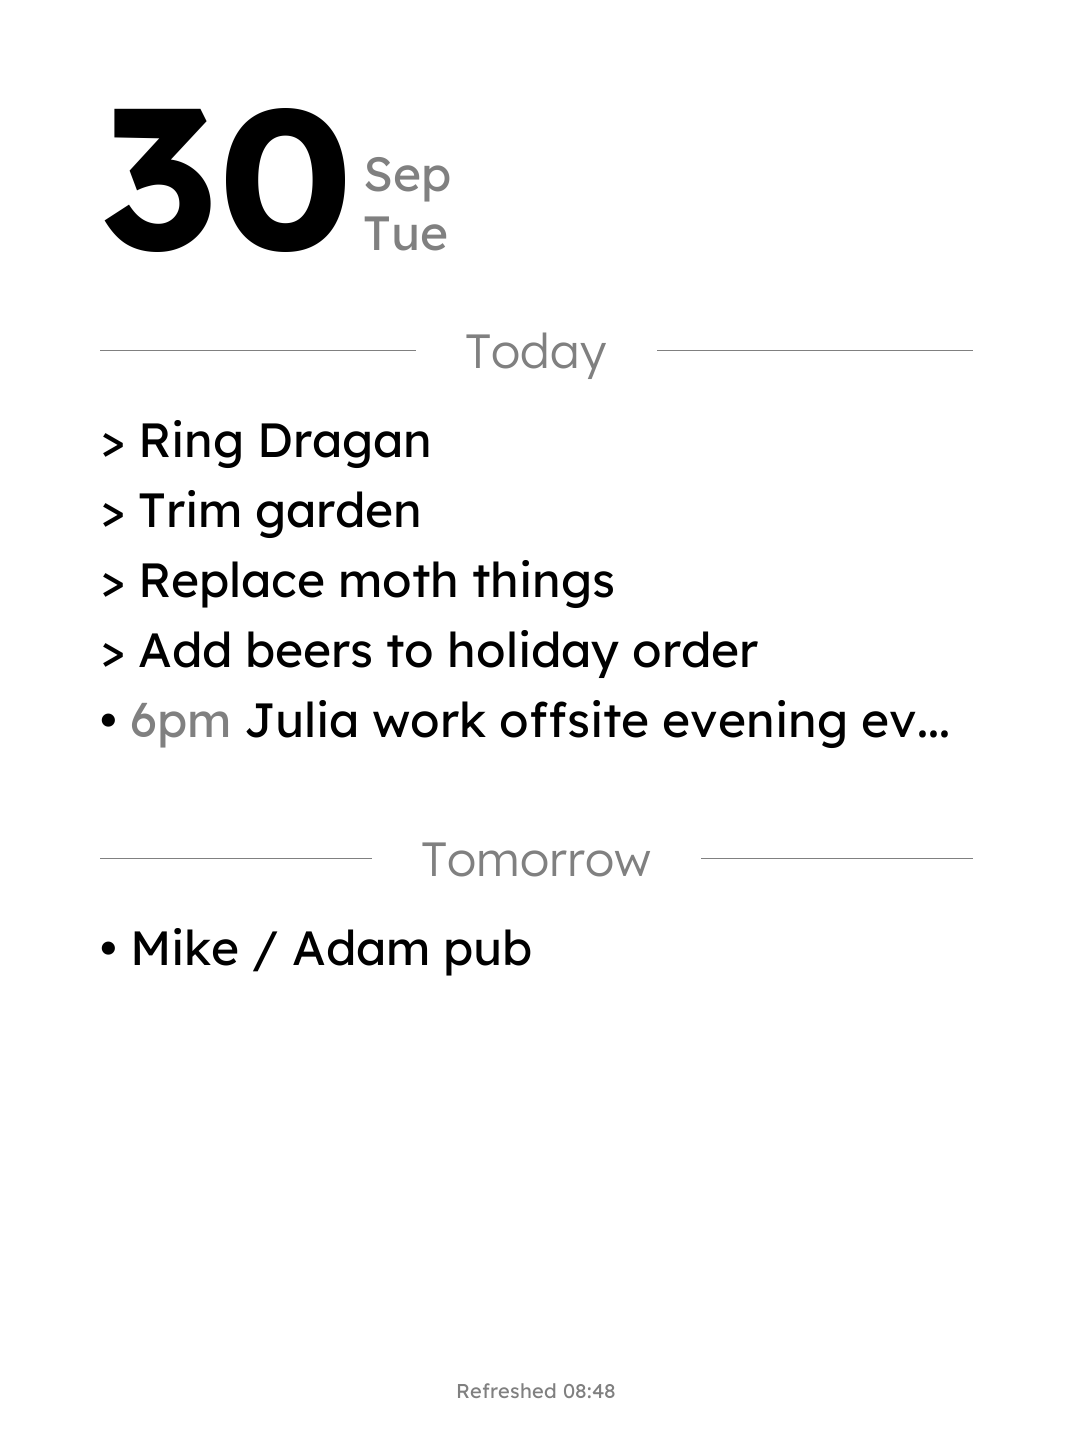
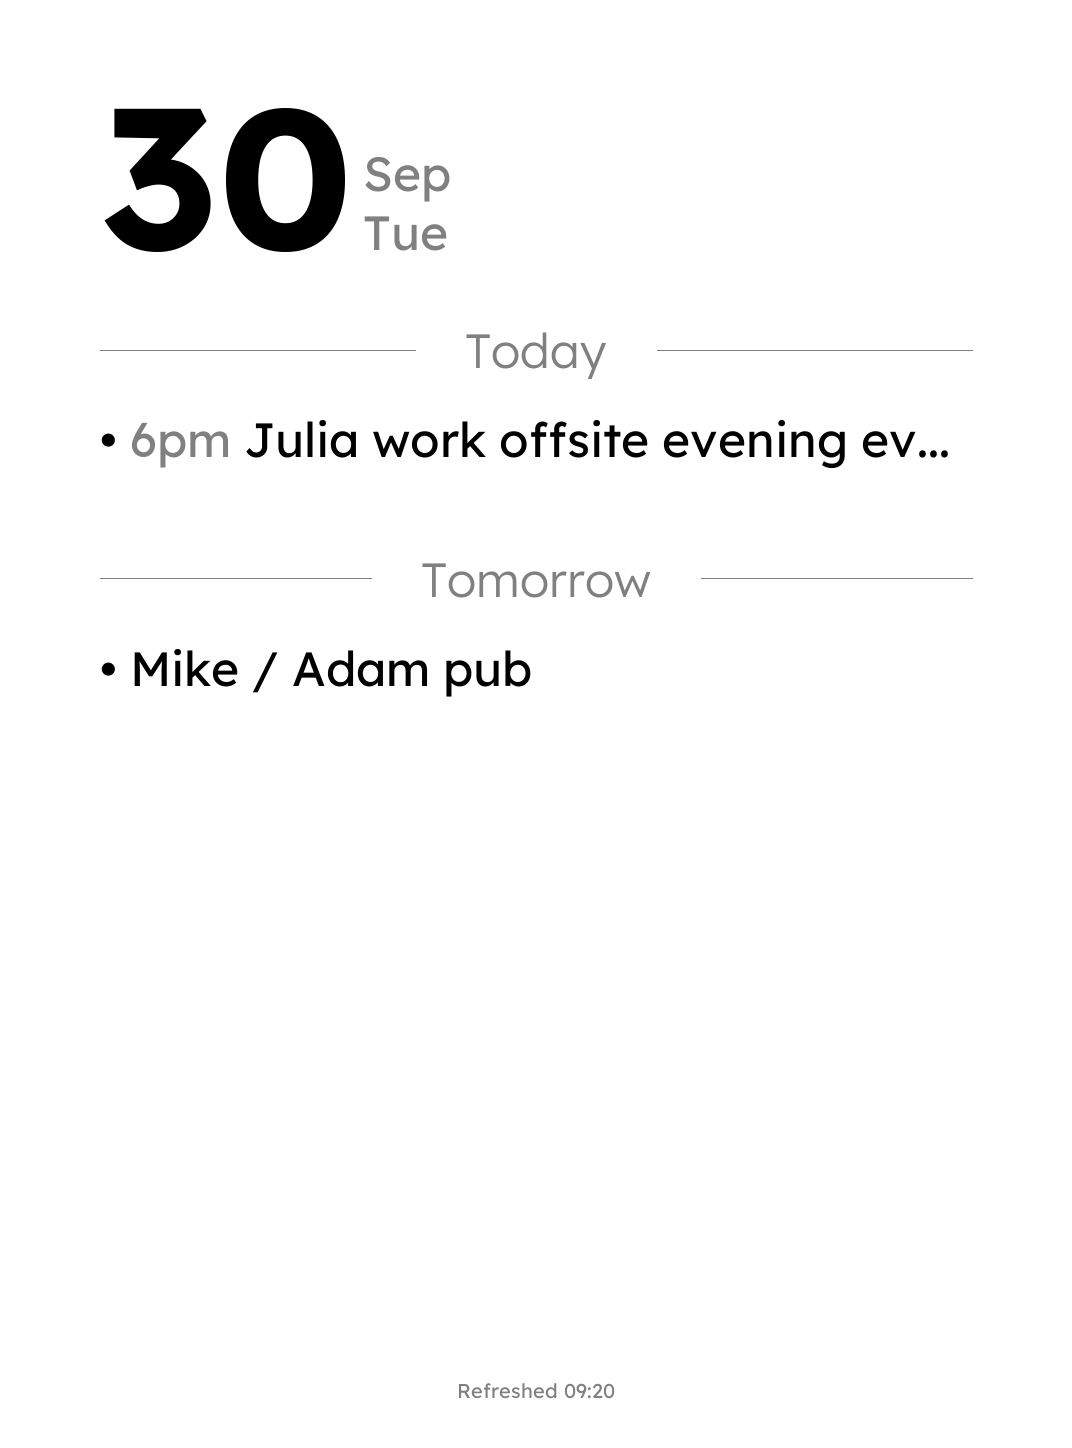
made data fetching more robust

Changed region(s): [[0.0924, 0.2797, 0.8619, 0.5283], [0.2771, 0.5905, 0.6157, 0.6837], [0.1231, 0.6215, 0.2463, 0.6837]]

diff --git a/server/src/server/app.py b/server/src/server/app.py
@@ -8,8 +8,8 @@ from fastapi import APIRouter, Response
 from fastapi.responses import HTMLResponse, PlainTextResponse
 
 from server.activity import Activity, group_events_by_relative_day, sort_by_time
-from server.calendar_plugins.gcal import GCal
 from server.config import AppConfig
+from server.gcal import GCal
 from server.render import Renderer
 from server.todoist import get_tasks_todoist
 
@@ -17,9 +17,17 @@ logger = logging.getLogger(__name__)
 
 class App:
     config: AppConfig
+    router: APIRouter | None = None
 
     def __init__(self, config: AppConfig):
         self.config = config
+
+    @classmethod
+    def create_server(cls, config: AppConfig) -> "App":
+        """Create an App instance configured for server mode with web routes."""
+        app = cls(config)
+        app.configure_routes()
+        return app
 
     def get_logs(self, file_name) -> str:
         logs = Path(self.config.server.server_dir) / file_name
@@ -53,36 +61,74 @@ class App:
         return Response(content=image, media_type="image/png")
 
     def get_dashboard_data(self) -> tuple[dict[list[Activity]], datetime]:
-        # list timezones: print(zoneinfo.available_timezones())
-        display_timezone = ZoneInfo(self.config.calendar.display_timezone)
+        """
+        Fetch data from all configured sources in parallel with error handling.
+        Only fetches from sources that are properly configured.
+        """
+        # Get current time in display timezone
+        display_timezone = ZoneInfo(self.config.calendar.display_timezone if self.config.calendar else "UTC")
         current_date = datetime.now(display_timezone)
 
-        logger.debug("Getting data in parallel...")
+        # Determine which data sources to fetch based on configuration
+        data_sources = []
+        
+        if self.config.tasks and self.config.tasks.api_key:
+            data_sources.append(("tasks", self.get_tasks))
+            
+        if self.config.calendar:
+            data_sources.append(("appointments", self.get_appointments))
+            
+        # Add weather fetching when implemented
+        # if self.config.weather and self.config.weather.api_key:
+        #     data_sources.append(("weather", self.get_weather))
 
-        with ThreadPoolExecutor() as executor:
-            future_tasks = executor.submit(
-                self.get_tasks, current_date
-            )  # TODO: make this optional depending on config.toml
-            future_appointments = executor.submit(self.get_appointments, current_date)
+        source_names = [name for name, _ in data_sources]
+        logger.debug("Fetching data from %d sources: %s", len(data_sources), source_names)
 
-            # Wait for both API calls to complete
-            wait([future_tasks, future_appointments])
+        # Fetch data in parallel with error handling
+        all_events = []
+        
+        if data_sources:
+            with ThreadPoolExecutor(max_workers=len(data_sources)) as executor:
+                # Submit all tasks
+                future_to_source = {
+                    executor.submit(self._fetch_with_error_handling, source_name, fetch_func, current_date): source_name
+                    for source_name, fetch_func in data_sources
+                }
+                
+                # Collect results as they complete
+                for future in wait(future_to_source.keys()).done:
+                    source_name = future_to_source[future]
+                    try:
+                        events = future.result()
+                        all_events.extend(events)
+                        logger.debug("Successfully fetched %d events from %s", len(events), source_name)
+                    except (RuntimeError, ValueError, ConnectionError):
+                        logger.exception("Failed to fetch data from %s", source_name)
+                        # Continue with other sources - graceful degradation
+        else:
+            logger.warning("No data sources configured or available")
 
-            tasks = future_tasks.result()
-            appointments = future_appointments.result()
+        # Process and filter events
+        events_filtered = [event for event in all_events if not event.ended_over_an_hour_ago]
+        events_grouped = group_events_by_relative_day(events=events_filtered, current_date=current_date)
 
-        events_unsorted = tasks + appointments
-        events_filtered = [event for event in events_unsorted if not event.ended_over_an_hour_ago]
-        events = group_events_by_relative_day(events=events_filtered, current_date=current_date)
+        total_events = sum(len(events_grouped[day]) for day in events_grouped)
+        logger.info("Retrieved %d events across %d days", total_events, len(events_grouped))
 
-        count_events = 0
-        for day in events:
-            count_events += len(events[day])
+        return events_grouped, current_date
 
-        log_msg = f"Retrieved {count_events} events across {len(events)} days"
-        logger.debug(log_msg)
-
-        return events, current_date
+    def _fetch_with_error_handling(self, source_name: str, fetch_func, current_date: datetime) -> list[Activity]:
+        """
+        Wrapper to fetch data from a source with error handling and timeout.
+        Returns empty list on error to allow graceful degradation.
+        """
+        try:
+            logger.debug("Fetching data from %s...", source_name)
+            return fetch_func(current_date)
+        except (RuntimeError, ValueError, ConnectionError):
+            logger.exception("Error fetching from %s", source_name)
+            return []  # Graceful degradation - return empty list
 
     def generate_image(self, events: dict[list[Activity]], current_date: datetime) -> bytes:
         events_today = sort_by_time(events.get(0, []))
@@ -109,23 +155,32 @@ class App:
         return r.get_png()
 
     def get_tasks(self, current_date: datetime) -> list[Activity]:
+        """Fetch tasks from Todoist API."""
         config = self.config.tasks
         if not config or not config.api_key:
+            logger.debug("Todoist not configured, skipping tasks")
             return []
 
-        project_id = config.project_id
-        date_end = current_date + timedelta(days=self.config.calendar.days_to_show)
-        return get_tasks_todoist(api_key=config.api_key, project_id=project_id, date_end=date_end)
+        # Use calendar days_to_show if available, otherwise default to 2 days
+        days_to_show = self.config.calendar.days_to_show if self.config.calendar else 2
+        date_end = current_date + timedelta(days=days_to_show)
+        
+        logger.debug("Fetching tasks from Todoist for project %s until %s", config.project_id, date_end.date())
+        return get_tasks_todoist(api_key=config.api_key, project_id=config.project_id, date_end=date_end)
 
     def get_appointments(self, current_date: datetime) -> list[Activity]:
+        """Fetch calendar events from Google Calendar API."""
         config = self.config.calendar
         if not config:
+            logger.debug("Calendar not configured, skipping appointments")
             return []
 
-        # Calculate date range (same logic that was in Calendar class)
+        # Calculate date range
         start_date = datetime.combine(current_date.date(), time.min)  # midnight today
         end_date = start_date + timedelta(days=config.days_to_show)
 
+        logger.debug("Fetching calendar events from %s to %s", start_date.date(), end_date.date())
+        
         # Use GCal directly instead of the redundant Calendar wrapper
         gcal = GCal(config.creds)
         return gcal.get_events(
@@ -135,26 +190,8 @@ class App:
             exclude_default_calendar=False,
         )
 
-    def get_weather():
-        ...
-        # owm_api_key = api["owm_api_key"]  # OpenWeatherMap API key. Required to retrieve weather forecast.
-        # lat = config["lat"] # Latitude in decimal of the location to retrieve weather forecast for
-        # lon = config["lon"] # Longitude in decimal of the location to retrieve weather forecast for
-        # owmModule = OWMModule(owm_api_key)
-        # current_weather, hourly_forecast, daily_forecast = owmModule.get_weather(lat, lon, from_cache=True)
-        # # current_weather_text=string.capwords(hourly_forecast[1]["weather"][0]["description"]),
-        # # current_weather_id=hourly_forecast[1]["weather"][0]["id"],
-        # # current_weather_temp=round(hourly_forecast[1]["temp"]),
-
-class AppServer(App):
-
-    router: APIRouter = APIRouter()
-
-    def __init__(self, config: AppConfig):
-        self.config = config
-        self.configure_routes()
-
     def configure_routes(self):
+        """Configure FastAPI routes for server mode."""
         self.router = APIRouter()
         self.router.add_api_route(
             "/",

diff --git a/server/src/server/cli.py b/server/src/server/cli.py
@@ -5,7 +5,7 @@ from typing import Annotated
 
 from typer import Context, Option, Typer
 
-from server.app import App, AppServer
+from server.app import App
 from server.config import AppConfig
 
 cli = Typer(add_completion=False)
@@ -62,7 +62,7 @@ def start(ctx: Context):
     from fastapi import FastAPI
     from fastapi_radar import Radar
 
-    app: AppServer = AppServer(ctx.obj.config)
+    app = App.create_server(ctx.obj.config)
     f = FastAPI()
     f.include_router(app.router)
 
